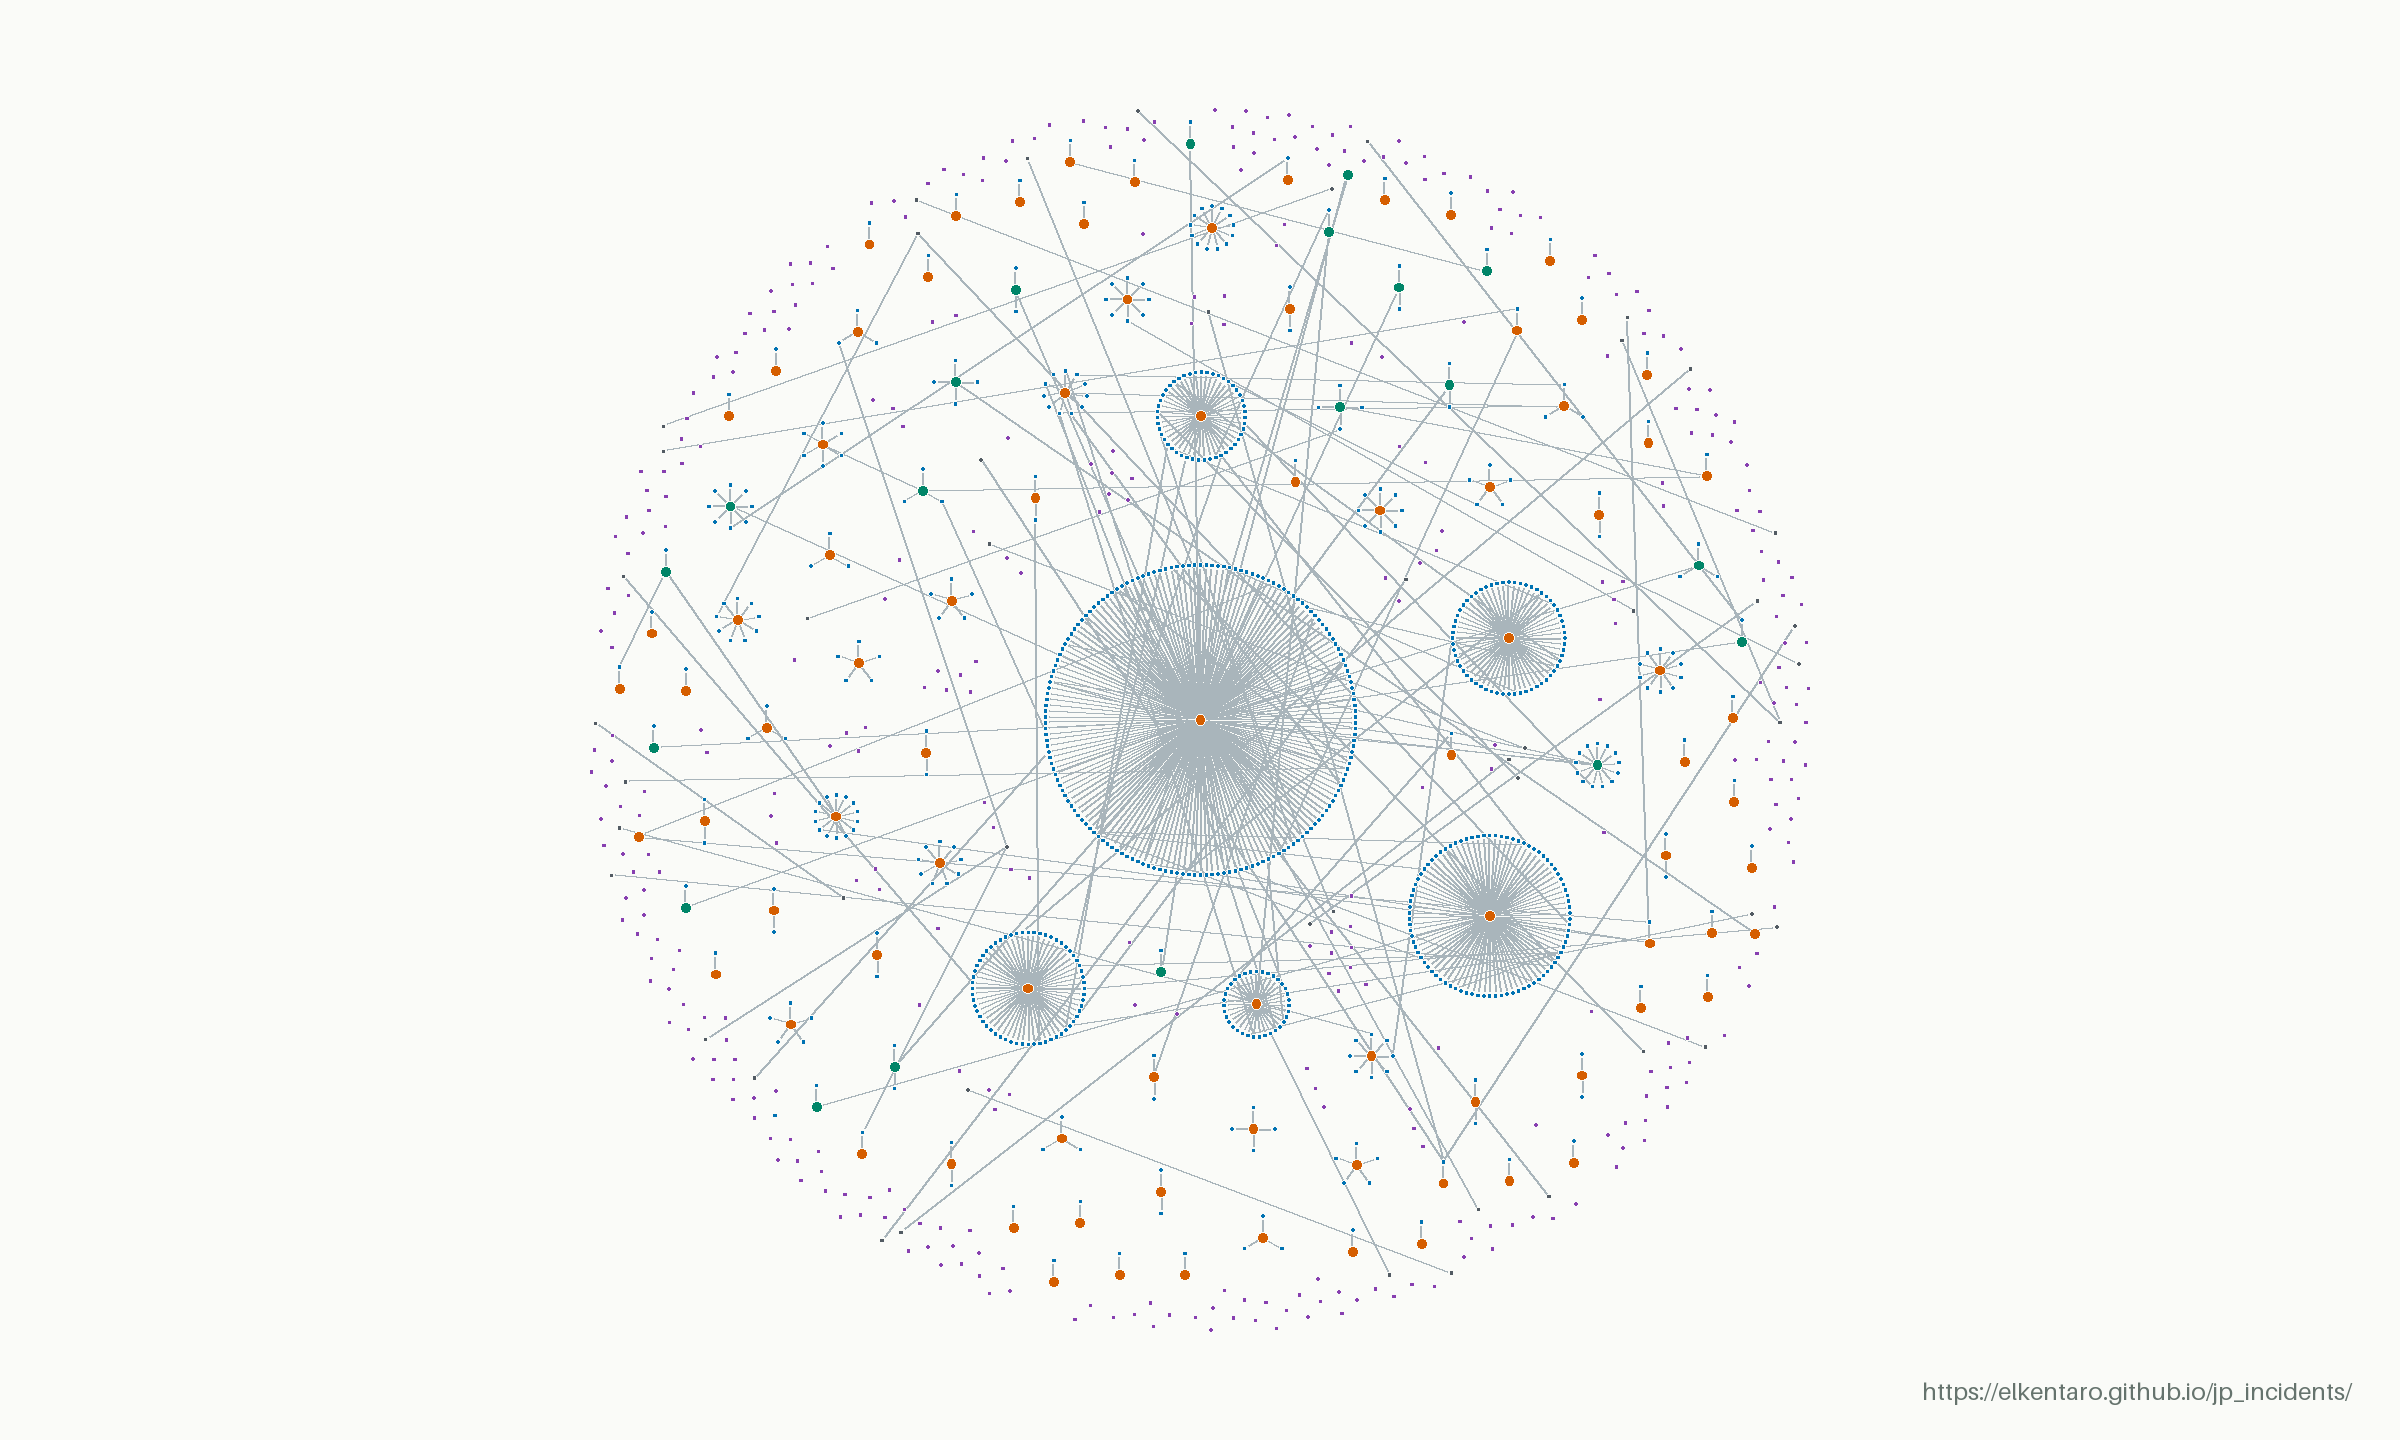
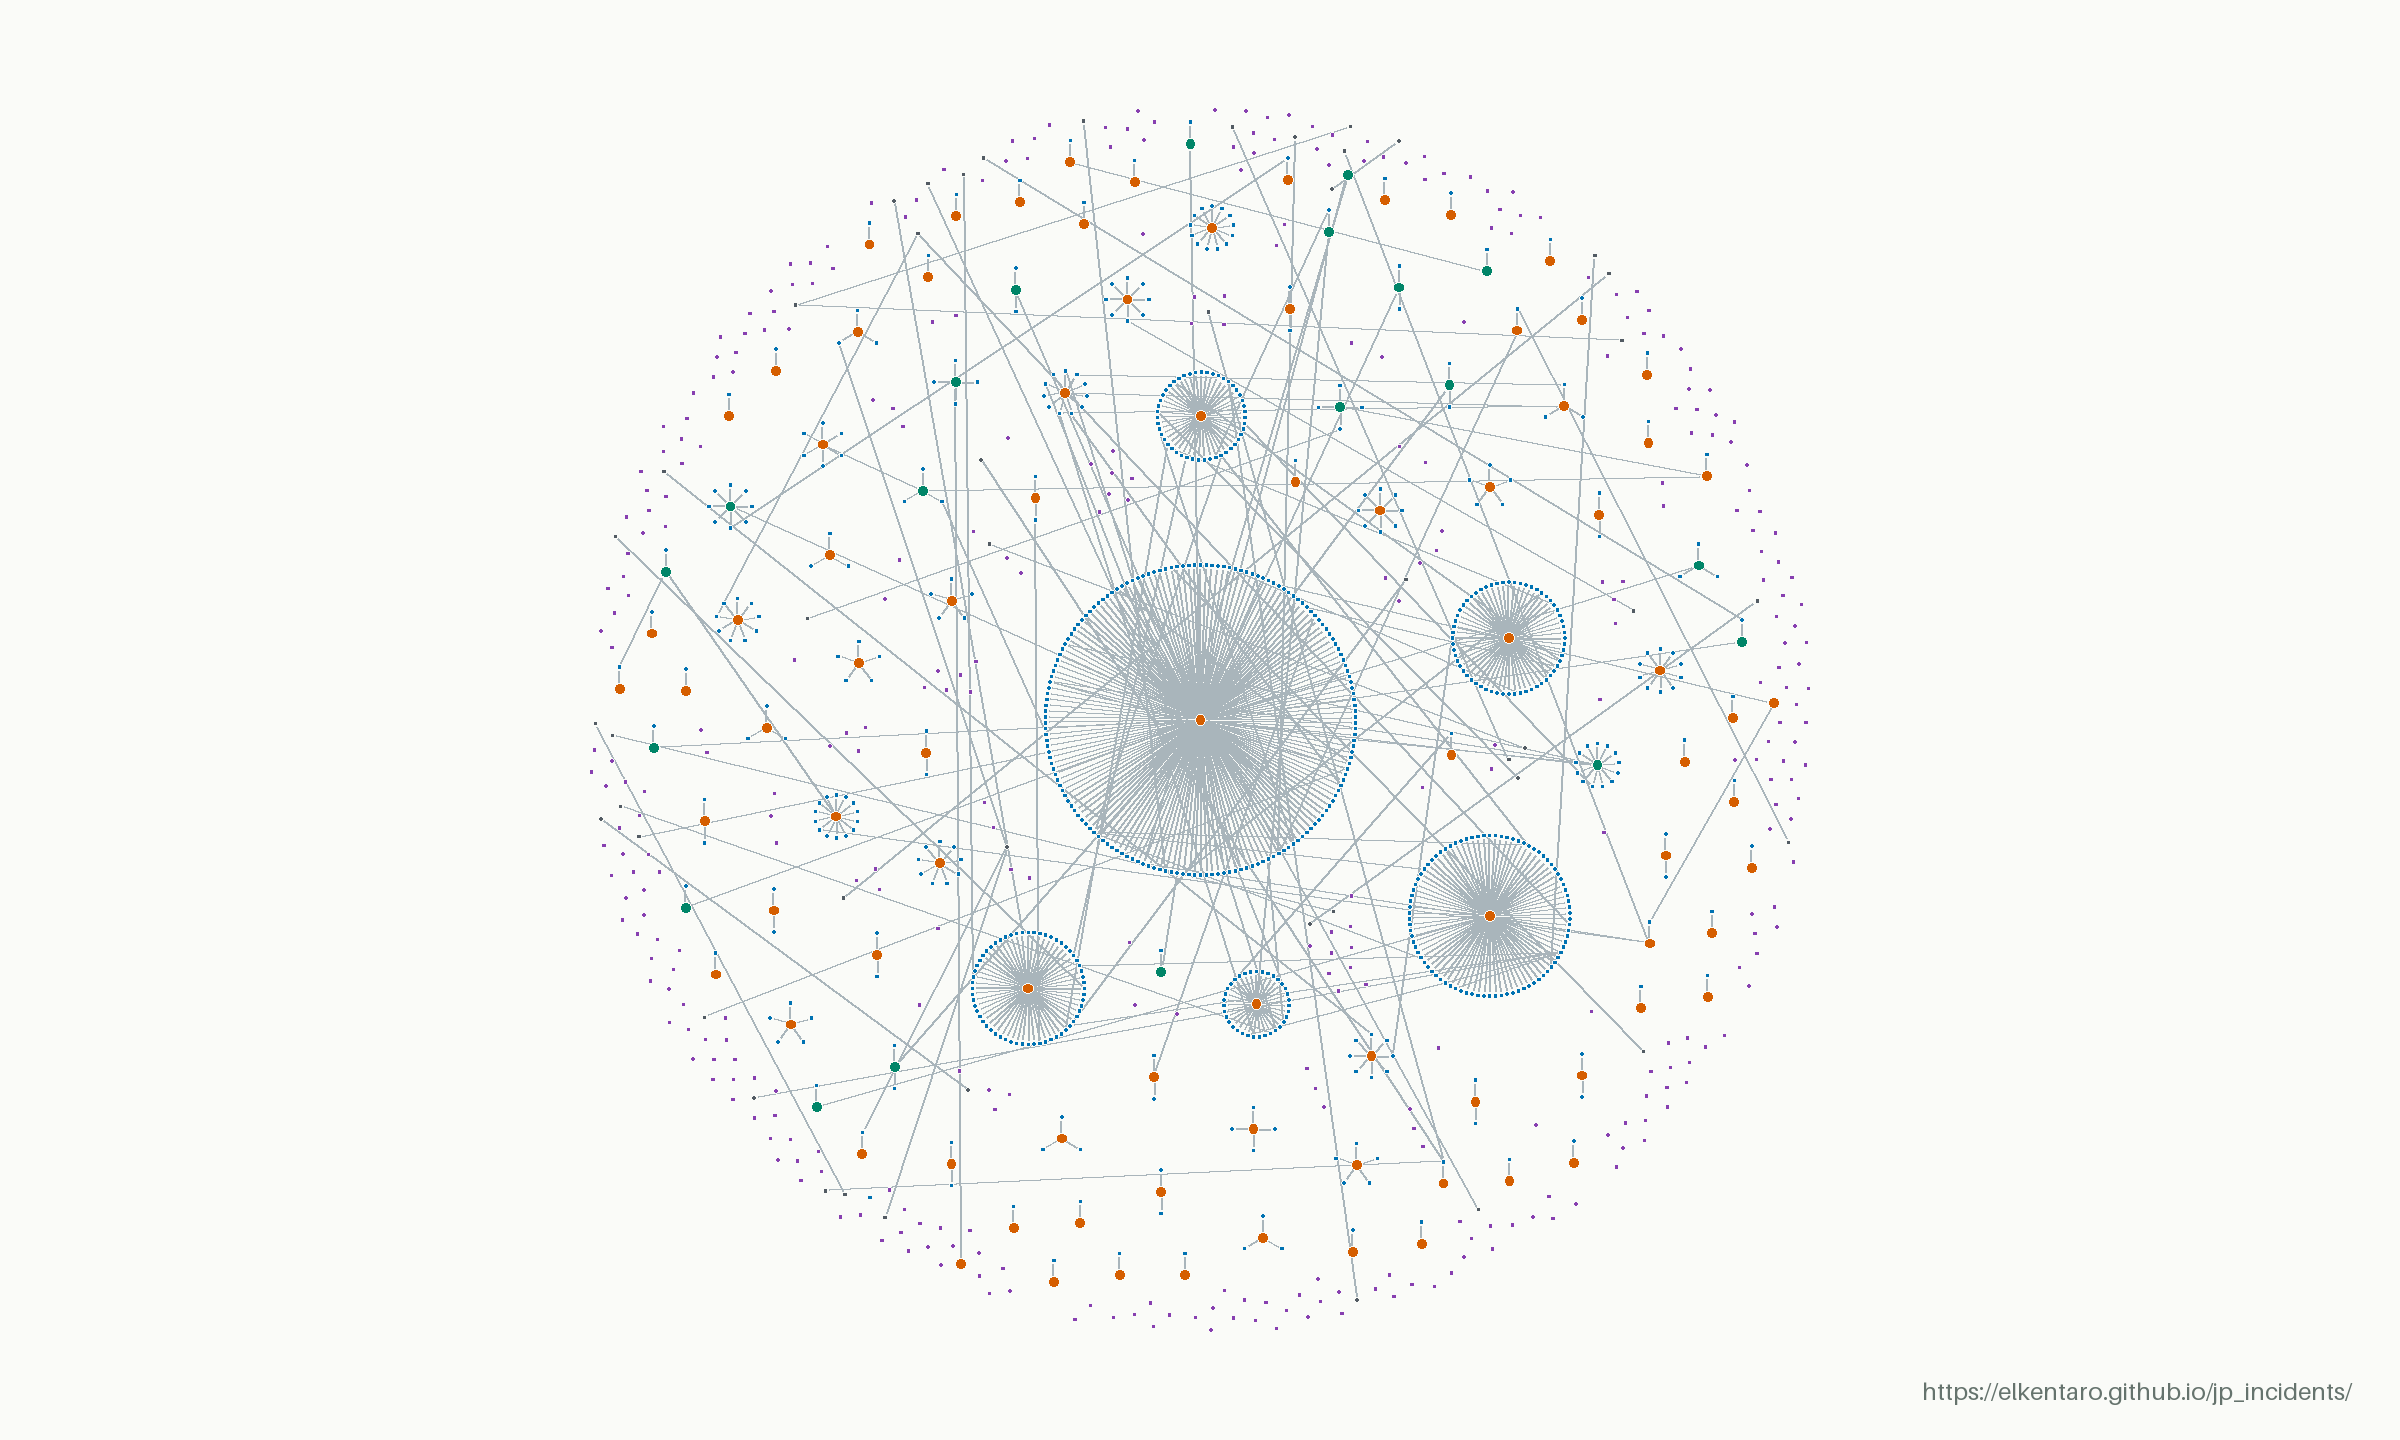
Update incident data (2026-11-15 18:17 UTC)

diff --git a/linkage.html b/linkage.html
@@ -32,15 +32,15 @@
     </section>
     <section class="direct-summary" aria-labelledby="direct-title">
       <dl class="direct-stats">
-        <div class="direct-total"><dt id="direct-title" data-copy="direct">Direct incidents</dt><dd id="direct-count">496</dd></div>
+        <div class="direct-total"><dt id="direct-title" data-copy="direct">Direct incidents</dt><dd id="direct-count">497</dd></div>
         <div><dt data-copy="directUpstream">Upstream incidents</dt><dd id="upstream-count">86</dd></div>
-        <div><dt data-copy="directStandalone">Standalone incidents</dt><dd id="standalone-count">410</dd></div>
+        <div><dt data-copy="directStandalone">Standalone incidents</dt><dd id="standalone-count">411</dd></div>
       </dl>
       <p class="direct-excluded"><strong id="downstream-count">739</strong> <span data-copy="directExcluded">downstream records excluded, including incidents with both roles.</span></p>
       <p class="direct-definition" data-copy="directDefinition">Direct incidents = upstream + standalone, based on recorded causal links. Standalone incidents have no upstream or downstream causal links, but may have other links, such as separate events at the same organization.</p>
     </section>
     <dl class="map-stats">
-      <div><dt data-copy="total">Incidents in snapshot</dt><dd>1235</dd></div>
+      <div><dt data-copy="total">Incidents in snapshot</dt><dd>1236</dd></div>
       <div><dt data-copy="linked">With recorded connections</dt><dd>871</dd></div>
       <div><dt data-copy="links">Recorded connections</dt><dd>826</dd></div>
       <div><dt data-copy="networks">Connected networks</dt><dd>74</dd></div>
@@ -50,13 +50,13 @@
         <img src="data/linkage-map.png" width="2400" height="1440" alt="Anonymized incident map. Orange upstream hubs connect to blue downstream incidents; purple unlinked incidents appear throughout the same map without connecting lines." data-copy-alt="alt">
       </div>
       <figcaption>
-        <div class="map-caption-meta"><span><span data-copy="updated">Last updated</span>: <time datetime="2026-11-15T13:16:55.447513+00:00">2026-11-15 13:16 UTC</time></span><a href="data/linkage-map.png" target="_blank" rel="noopener" data-copy="open">Open full-resolution image ↗</a></div>
+        <div class="map-caption-meta"><span><span data-copy="updated">Last updated</span>: <time datetime="2026-11-15T18:16:24.328685+00:00">2026-11-15 18:16 UTC</time></span><a href="data/linkage-map.png" target="_blank" rel="noopener" data-copy="open">Open full-resolution image ↗</a></div>
         <div class="map-key-section">
           <strong id="map-key-title" data-copy="key">Key</strong>
           <ul class="map-key" aria-labelledby="map-key-title">
             <li><span class="key-dot upstream" aria-hidden="true"></span><span data-copy="keyUpstream">Upstream</span></li>
             <li><span class="key-dot downstream" aria-hidden="true"></span><span data-copy="keyDownstream">Downstream</span></li>
-            <li><span class="key-dot standalone" aria-hidden="true"></span><span data-copy="keyStandalone">Unlinked</span><span>(364)</span></li>
+            <li><span class="key-dot standalone" aria-hidden="true"></span><span data-copy="keyStandalone">Unlinked</span><span>(365)</span></li>
             <li><span class="key-dot both" aria-hidden="true"></span><span data-copy="keyBoth">Both roles</span></li>
             <li><span class="key-dot related" aria-hidden="true"></span><span data-copy="keyRelated">Other related</span></li>
             <li><span class="key-line" aria-hidden="true"></span><span data-copy="keyRelationship">Recorded relationship</span></li>
@@ -69,7 +69,7 @@
       <section><h2 data-copy="readingTitle">Reading the map</h2><p data-copy="reading">Orange marks upstream incidents, blue downstream incidents, and purple unlinked incidents with no recorded connection. Teal marks incidents with both upstream and downstream roles; charcoal marks other related incidents. A missing connection does not establish that two incidents are unrelated.</p></section>
       <section><h2 data-copy="snapshotTitle">About this snapshot</h2><p data-copy="snapshot">The static image is refreshed when published incidents or relationships change, and at least every 24 hours during normal publication. Larger upstream clusters have extra spacing to keep their victims apart. Names, incident IDs, source links and incident dates are omitted; the connection pattern is retained. It is an overview of recorded relationships, not a complete map of cyber incidents in Japan.</p></section>
     </div>
-    <p class="map-source"><span data-copy="sourceUpdated">Source data updated</span>: <time datetime="2026-11-15T13:16:55+00:00">2026-11-15T13:16:55+00:00</time> · <a href="./" data-copy="browse">Browse the incident index</a></p>
+    <p class="map-source"><span data-copy="sourceUpdated">Source data updated</span>: <time datetime="2026-11-15T18:16:24+00:00">2026-11-15T18:16:24+00:00</time> · <a href="./" data-copy="browse">Browse the incident index</a></p>
   </main>
   <footer><div class="shell footer-inner"><p data-copy="footer">Public reports. Recorded relationships. An anonymized overview.</p><a href="./" data-copy="back">Back to incidents</a></div></footer>
   <script src="linkage.js?v=20261107-spacing" defer></script>
